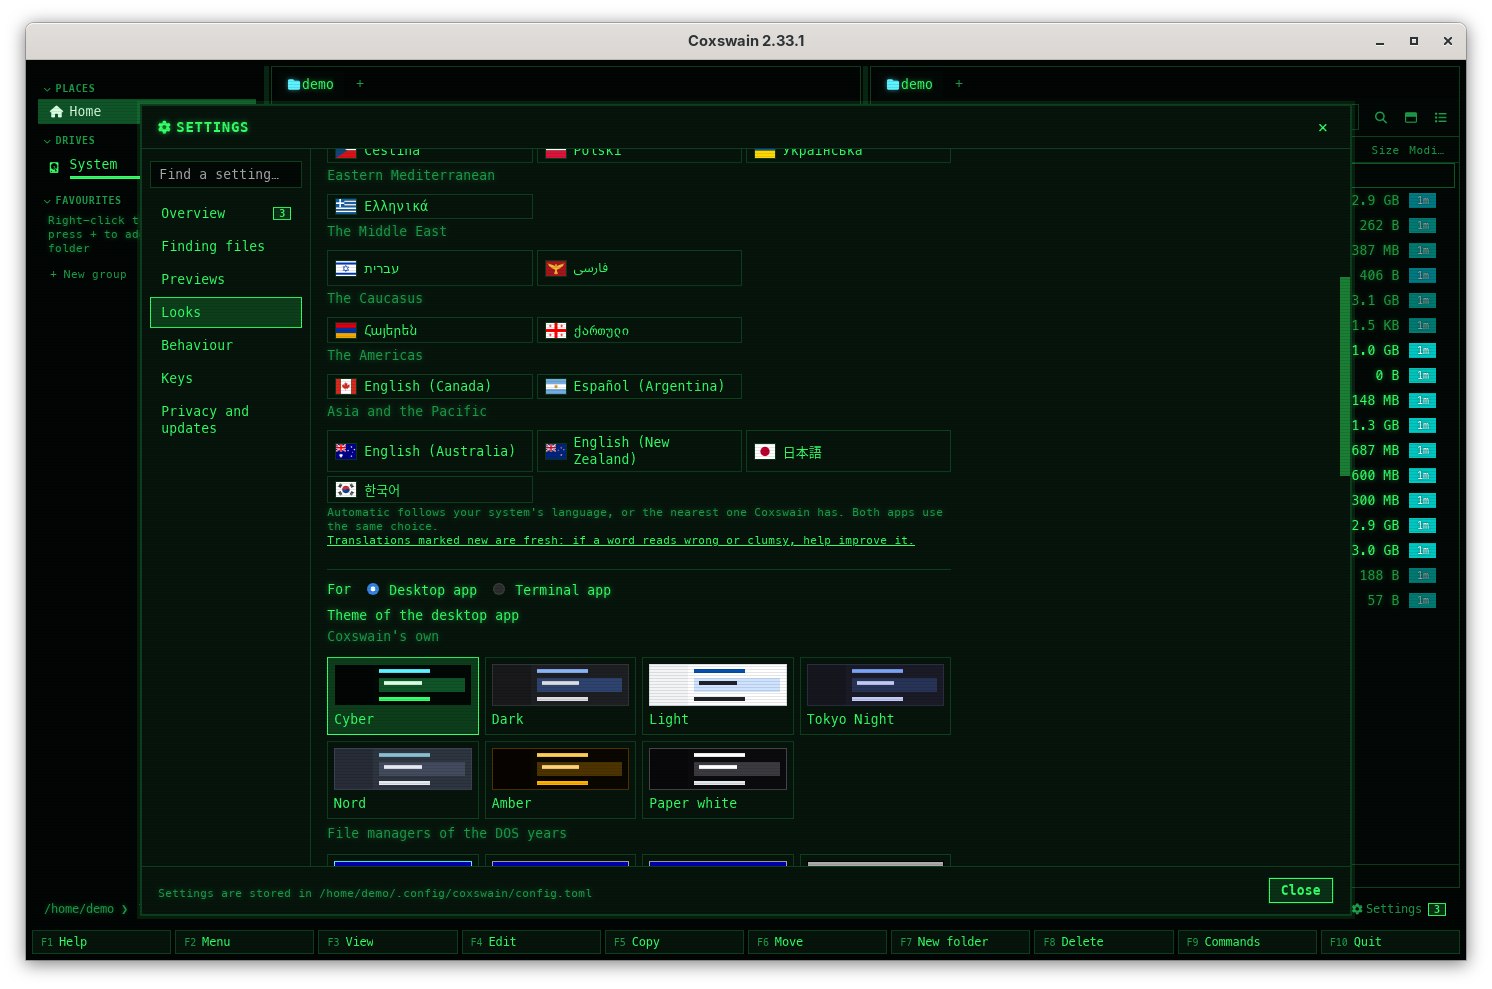
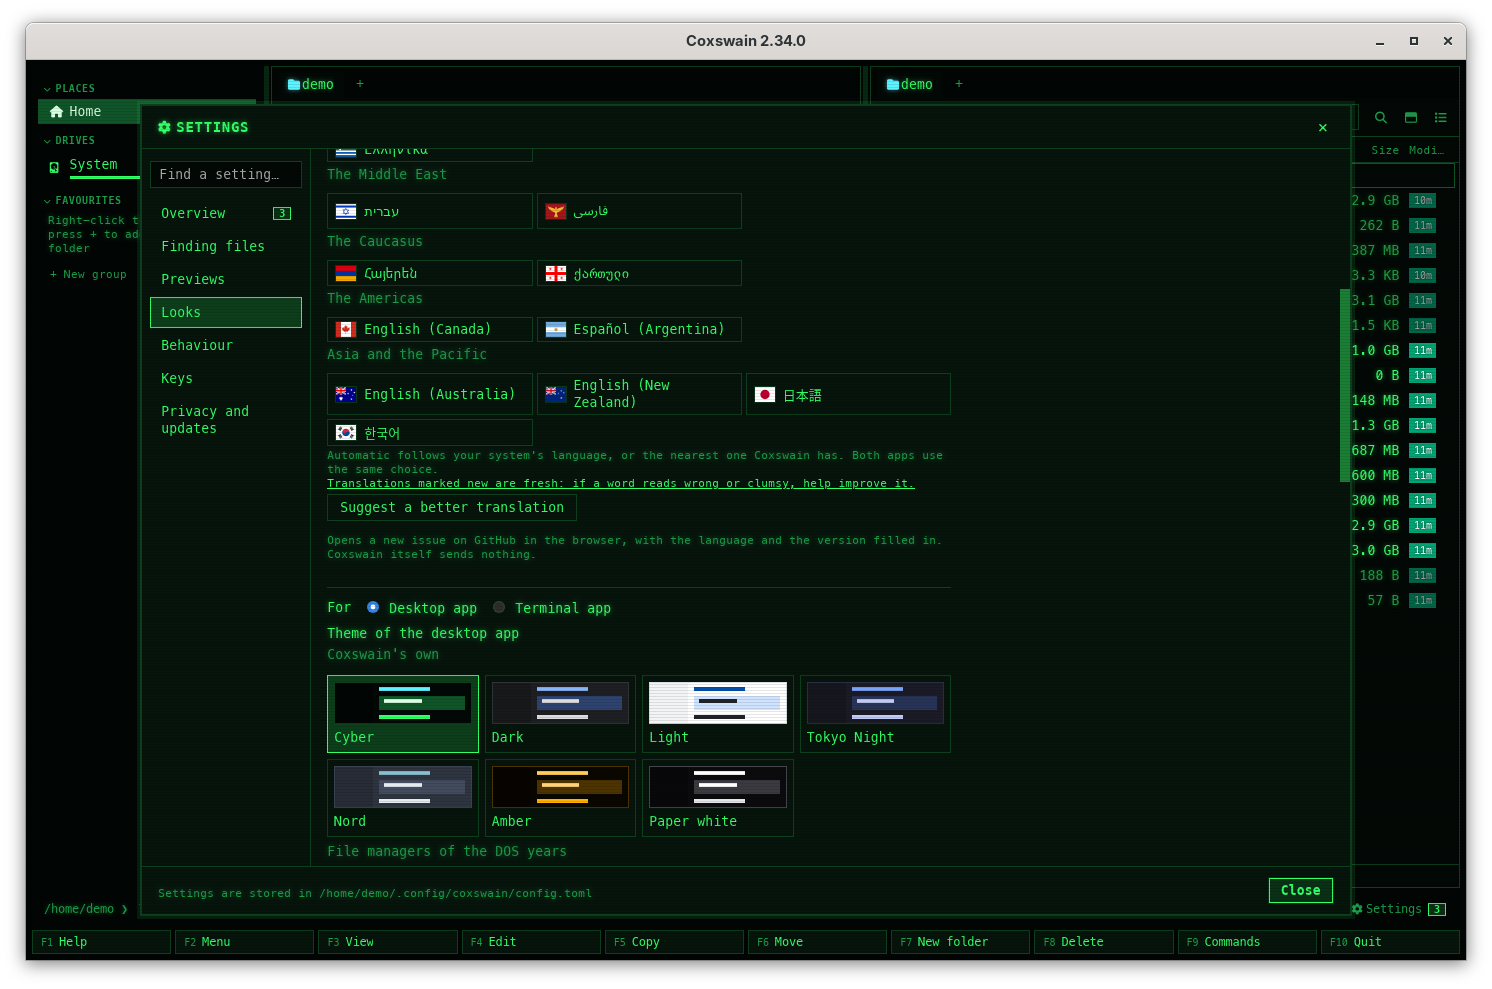
Screenshots of Settings at Looks with Suggest a better translation; the desktop button on a line of its own

diff --git a/gui/src/Settings.svelte b/gui/src/Settings.svelte
@@ -1067,7 +1067,7 @@
             {/each}
           </div>
           <p class="hint">{t("setting.language.hint")} <button class="link" onclick={() => invoke("open_path", { path: ui.cfg.improve_url })}>{t("settings.language_improve")}</button></p>
-          <p class="hint"><button onclick={() => invoke("suggest_translation", { language: ui.cfg.language }).catch((err) => (error = String(err)))} title={keysOf("suggest_translation").join(" · ")}>{t("action.suggest_translation")}</button> {t("settings.suggest_translation_hint_gui")}</p>
+          <div class="buttons"><button onclick={() => invoke("suggest_translation", { language: ui.cfg.language }).catch((err) => (error = String(err)))} title={keysOf("suggest_translation").join(" · ")}>{t("action.suggest_translation")}</button> <span class="hint">{t("settings.suggest_translation_hint_gui")}</span></div>
         </div>
 
         <!-- A line between: the themes are not part of the language list above. -->

diff --git a/docs/customise/settings.md b/docs/customise/settings.md
@@ -189,7 +189,7 @@ Opening this area asks the container runtime which images it has.
 
 ## Looks
 
-![Settings at Looks: the languages under their regions, among them The Middle East with עברית and فارسی and The Caucasus with Հայերեն and ქართული, a line, then the For switch on Desktop app and the theme swatches under their first group, Coxswain's own, with Cyber chosen](../screenshots/settings-looks.png)
+![Settings at Looks: the last languages under their regions, among them The Middle East with עברית and فارسی and The Caucasus with Հայերեն and ქართული, under them the button Suggest a better translation, a line, then the For switch on Desktop app and the theme swatches under their first group, Coxswain's own, with Cyber chosen](../screenshots/settings-looks.png)
 
 | Option | Does | Key |
 |---|---|---|
@@ -358,7 +358,7 @@ needs and the rows above it scroll.
 | Keys | First the row *Change keys in config.toml, under [keys]*: **Enter** opens your editor there. Then every action the terminal app has, under its group, with its keys; read-only, as in the desktop app. No scripts folder line: **F2** → *Open the scripts folder* goes there ([Scripts](../commands/scripts.md)) |
 | Privacy and updates | *Check for a new version*, what can leave the machine with your settings as they are and where to; *Disk use*, each place with its size (**Enter** shows it in the panel, **Delete** clears it, the search store and the preview cache among them; on a row under *Your own files* **Delete** removes it after you confirm, and on *quarantine/* it does nothing) and *Clear everything that can be built again*; where things are kept, the version |
 
-![The terminal app's Settings at Looks, Classic blue: Language (under the cursor) and Icons and git glyphs, then the heading Terminal app with Theme of the terminal app, then the heading Desktop app with its theme, Font, Monospaced font, Icon font, Text size and Row height](../screenshots/tui-settings-looks.png)
+![The terminal app's Settings at Looks, Classic blue: Language, [ Suggest a better translation ] under the cursor with what Enter does in the box below, and Icons and git glyphs, then the heading Terminal app with Theme of the terminal app, then the heading Desktop app with its theme, Font, Monospaced font, Icon font, Text size and Row height](../screenshots/tui-settings-looks.png)
 
 A level that needs a model starts the [setup guide](../search/setup.md) (`coxswain
 --setup-search`) on the plain terminal, as **Set up…** does; Settings is back when it ends,

diff --git a/docs/reference/configuration.md b/docs/reference/configuration.md
@@ -6,7 +6,7 @@ Both apps read one TOML file, `config.toml`. Set only what you want to change; e
 keeps its default. This page lists every key, with its type, its default, what it does, which
 app reads it and which Settings item writes it.
 
-![Settings at Looks: the languages under their regions, a line, then the For switch on Desktop app, and the theme swatches under their first group, Coxswain's own, with Cyber chosen](../screenshots/settings-looks.png)
+![Settings at Looks: the last languages under their regions, among them The Middle East with עברית and فارسی and The Caucasus with Հայերեն and ქართული, under them the button Suggest a better translation, a line, then the For switch on Desktop app and the theme swatches under their first group, Coxswain's own, with Cyber chosen](../screenshots/settings-looks.png)
 *Settings (**Ctrl+,** or **F12**, in either app) write single values into `config.toml`. The path is shown at the bottom: "Settings are stored in /home/demo/.config/coxswain/config.toml".*
 
 ## Contents

diff --git a/docs/customise/README.md b/docs/customise/README.md
@@ -8,7 +8,7 @@ change the most used parts at once; everything else is set in one file, `config.
 both apps read. These pages walk
 through each part, with the keys and the exact `config.toml` lines.
 
-![Settings at Looks: the languages under their regions, a line, then the For switch on Desktop app, and the theme swatches under their first group, Coxswain's own, with Cyber chosen](../screenshots/settings-looks.png)
+![Settings at Looks: the last languages under their regions, among them The Middle East with עברית and فارسی and The Caucasus with Հայերեն and ქართული, under them the button Suggest a better translation, a line, then the For switch on Desktop app and the theme swatches under their first group, Coxswain's own, with Cyber chosen](../screenshots/settings-looks.png)
 *The Settings window at Looks: the language, the theme, glyphs and fonts.*
 
 | Page | What it covers |

diff --git a/docs/customise/languages.md b/docs/customise/languages.md
@@ -276,7 +276,8 @@ Settings pick it at once (**F12** → *Looks* → *Language*); a change made in 
 in the file is read when it starts. `coxswain --languages` prints the list by region,
 the one in use and the new ones marked, and where to suggest a better word. Right to left
 depends on the terminal (see
-[Right to left](#right-to-left)). The help (**F1**), the command list (**F9**), dialogs, the
+[Right to left](#right-to-left)). *Suggest a better translation* is the row right under
+*Language* in its Settings (**Enter** on it), or **F9** → *Suggest a better translation*. The help (**F1**), the command list (**F9**), dialogs, the
 F-key bar and status texts are all translated.
 
 ## Questions
